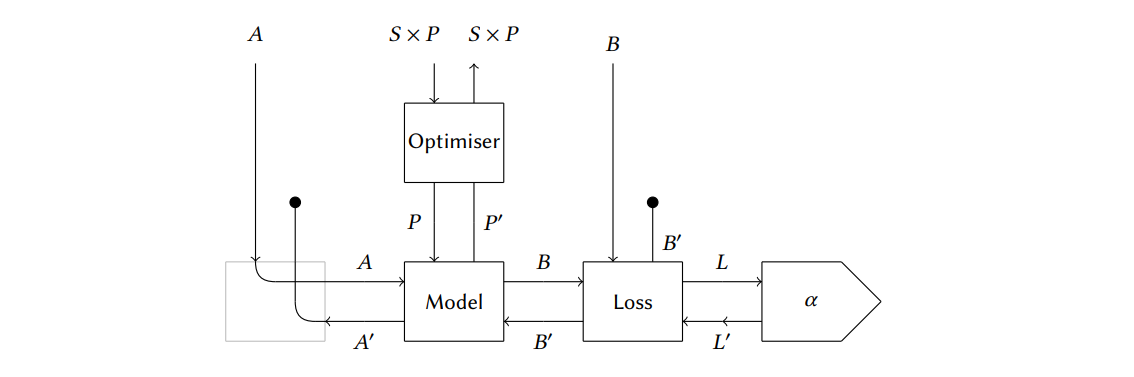
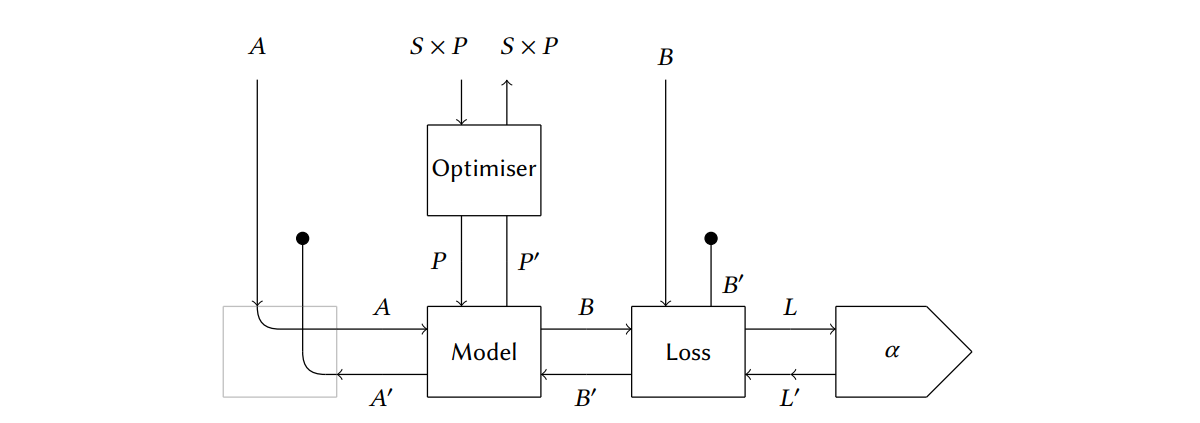
Publish.

diff --git a/posts/2022-12-05-graph_neural_networks_as_parametric_cokleisli_morphisms.html b/posts/2022-12-05-graph_neural_networks_as_parametric_cokleisli_morphisms.html
@@ -71,7 +71,7 @@
 </center>
[1 lines of base64/hex data omitted]
 <center>
-<img src="../images/graph_convolutional_blog_post.png" alt="Composition of three GCNN layers" width="600" />
+<img src="../images/graph_convolutional_transparent.png" alt="Composition of three GCNN layers" width="600" />
 </center>
[1 lines of base64/hex data omitted]
 <center>

diff --git a/papers.html b/papers.html
@@ -51,7 +51,7 @@
 <hr />
 <h2 id="graph-convolutional-neural-networks-as-parametric-cokleisli-morphisms">Graph Convolutional Neural Networks as Parametric CoKleisli morphisms</h2>
 <center>
-<img align="left" src="../images/graph_convolutional.png" alt width="400" />
+<img align="left" src="../images/graph_convolutional_padded.png" alt width="400" />
 </center>
 <div class="btn">
 <ul>
